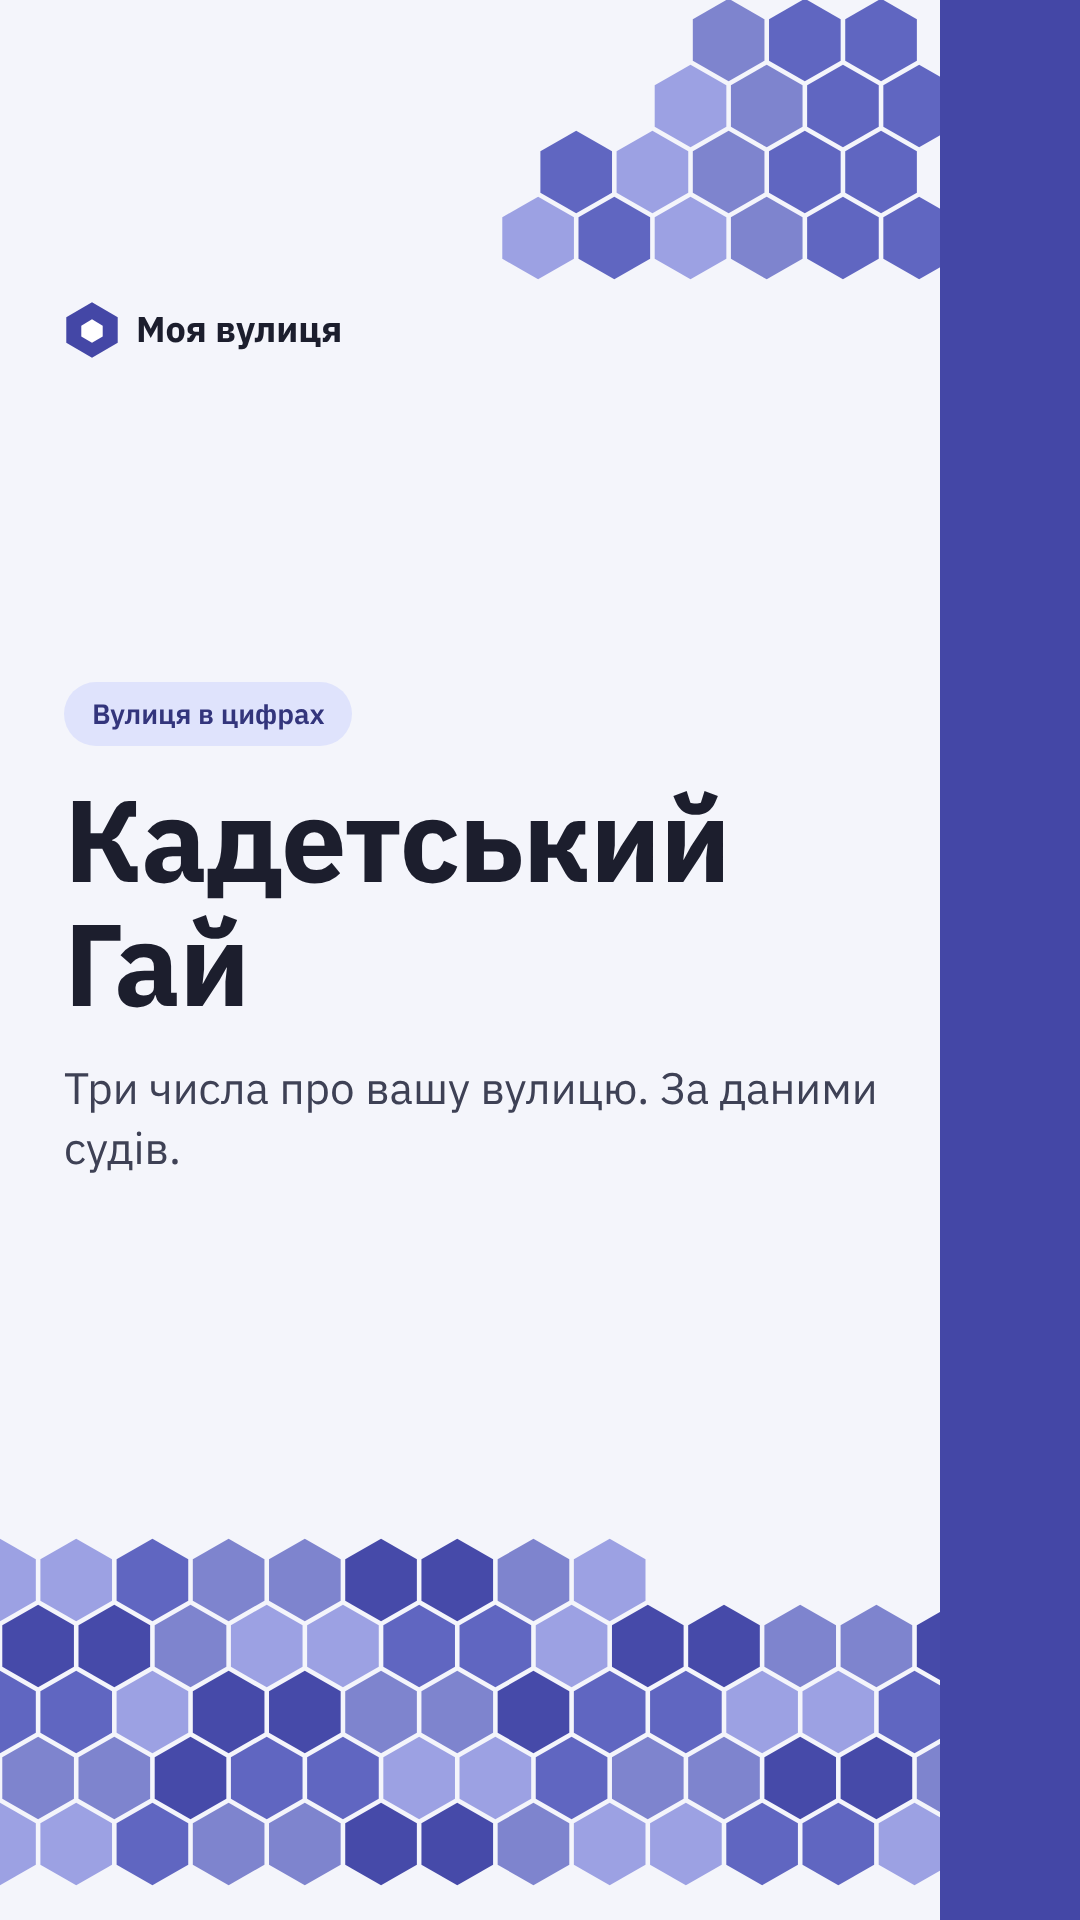
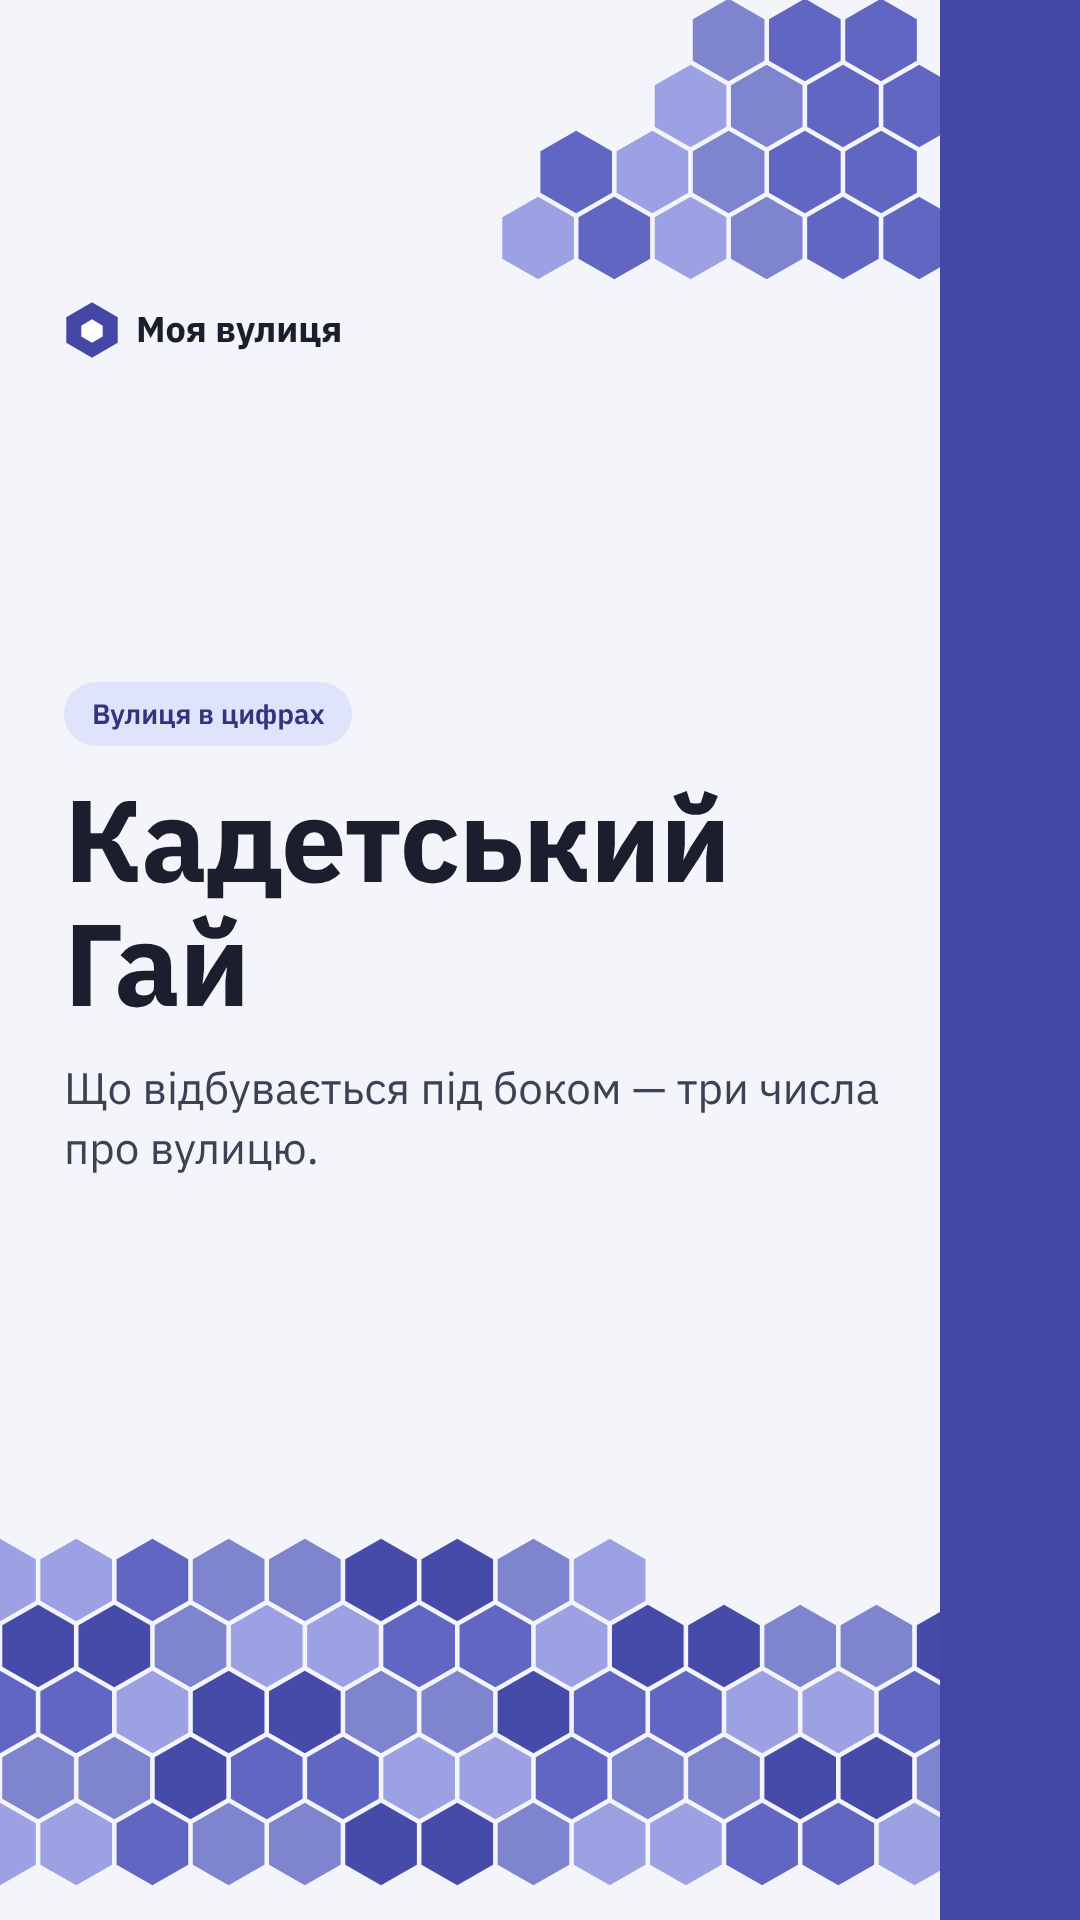
ZAVDANNYA-93: нові гасла в профілях і обкладинках (MV-106)
Claude-Session: https://claude.ai/code/session_01R2AQHkkfLLALW9osnQmNE6

Changed region(s): [[0.0611, 0.5625, 0.825, 0.625]]

diff --git a/brend/teksty-profiliv.md b/brend/teksty-profiliv.md
@@ -10,28 +10,28 @@
 
 Для TikTok (поле «Про себе» — до 80), підпису під назвою в Телеграмі, короткого опису Facebook.
 
-Основний (61):
-> Що відбувається на вашій вулиці. Карта подій за даними судів.
+Основний (38) — гасло бренду (MV-52, MV-106):
+> Моя вулиця — що відбувається під боком
 
 Запасні:
-> Події на вашій вулиці — з рішень судів, людською мовою.
+> Що болить вашому будинку. Скарги мешканців і події з рішень судів.
 
-> Вулиці Києва у цифрах та історіях. За даними судів.
+> Що відбувається під боком: вулиці Києва у цифрах та історіях.
 
 ## Довше — до 150 знаків
 
 Для Instagram (поле «Про себе» — до 150), опису Телеграм-каналу, першого рядка опису YouTube.
 
-Основний (136):
-> Моя вулиця — карта подій Києва з судових рішень: що ставалося біля вашого дому і скільки. Без оцінок — лише дані й посилання на рішення.
+Основний (133):
+> Моя вулиця — що відбувається під боком. Що болить вашому будинку: скарги мешканців і події з рішень судів — по кожному будинку Києва.
 
 Запасні:
 > Історії з рішень судів і цифри про вулиці Києва. Грайте у «Вгадай, де це було» і перевіряйте свою адресу на карті.
 
-> Що відбувається на вашій вулиці — за даними судів. Короткі історії з рішень, цифри по вулицях і гра «Вгадай, де це було».
+> Що відбувається під боком: короткі історії з рішень судів, цифри по вулицях і гра «Вгадай, де це було».
 
 ## Назва скрізь
 
 > Моя вулиця
 
-Підпис під кожною картинкою й роликом (дрібно): «Дані: судові рішення ЄДРСР».
+Підпис під кожною картинкою й роликом (дрібно): «Дані: судові рішення ЄДРСР». На сторінки будинків і вітрину «Мій будинок» — гасло лінії «Що болить вашому будинку», дрібно під ним: «Скарги мешканців і події з рішень судів — по кожному будинку» (MV-106).

diff --git a/brend/README.md b/brend/README.md
@@ -79,7 +79,7 @@ python brend/zrobyty.py brend/dani/мій-файл.json
 
 ### `avatar`, `youtube`, `facebook`
 Дані — `dani/avatar.json`, `dani/youtube.json`, `dani/facebook.json`. Текст обкладинок:
-«Моя вулиця — що відбувається на вашій вулиці. За даними судів.» На YouTube текст лише
+«Моя вулиця — що відбувається під боком. Скарги мешканців і події з рішень судів.» (MV-52, MV-106) На YouTube текст лише
 в безпечній зоні 1546×423; на Facebook — у середині, яку лишає телефон (≈1110 px).
 
 ## Що де лежить
